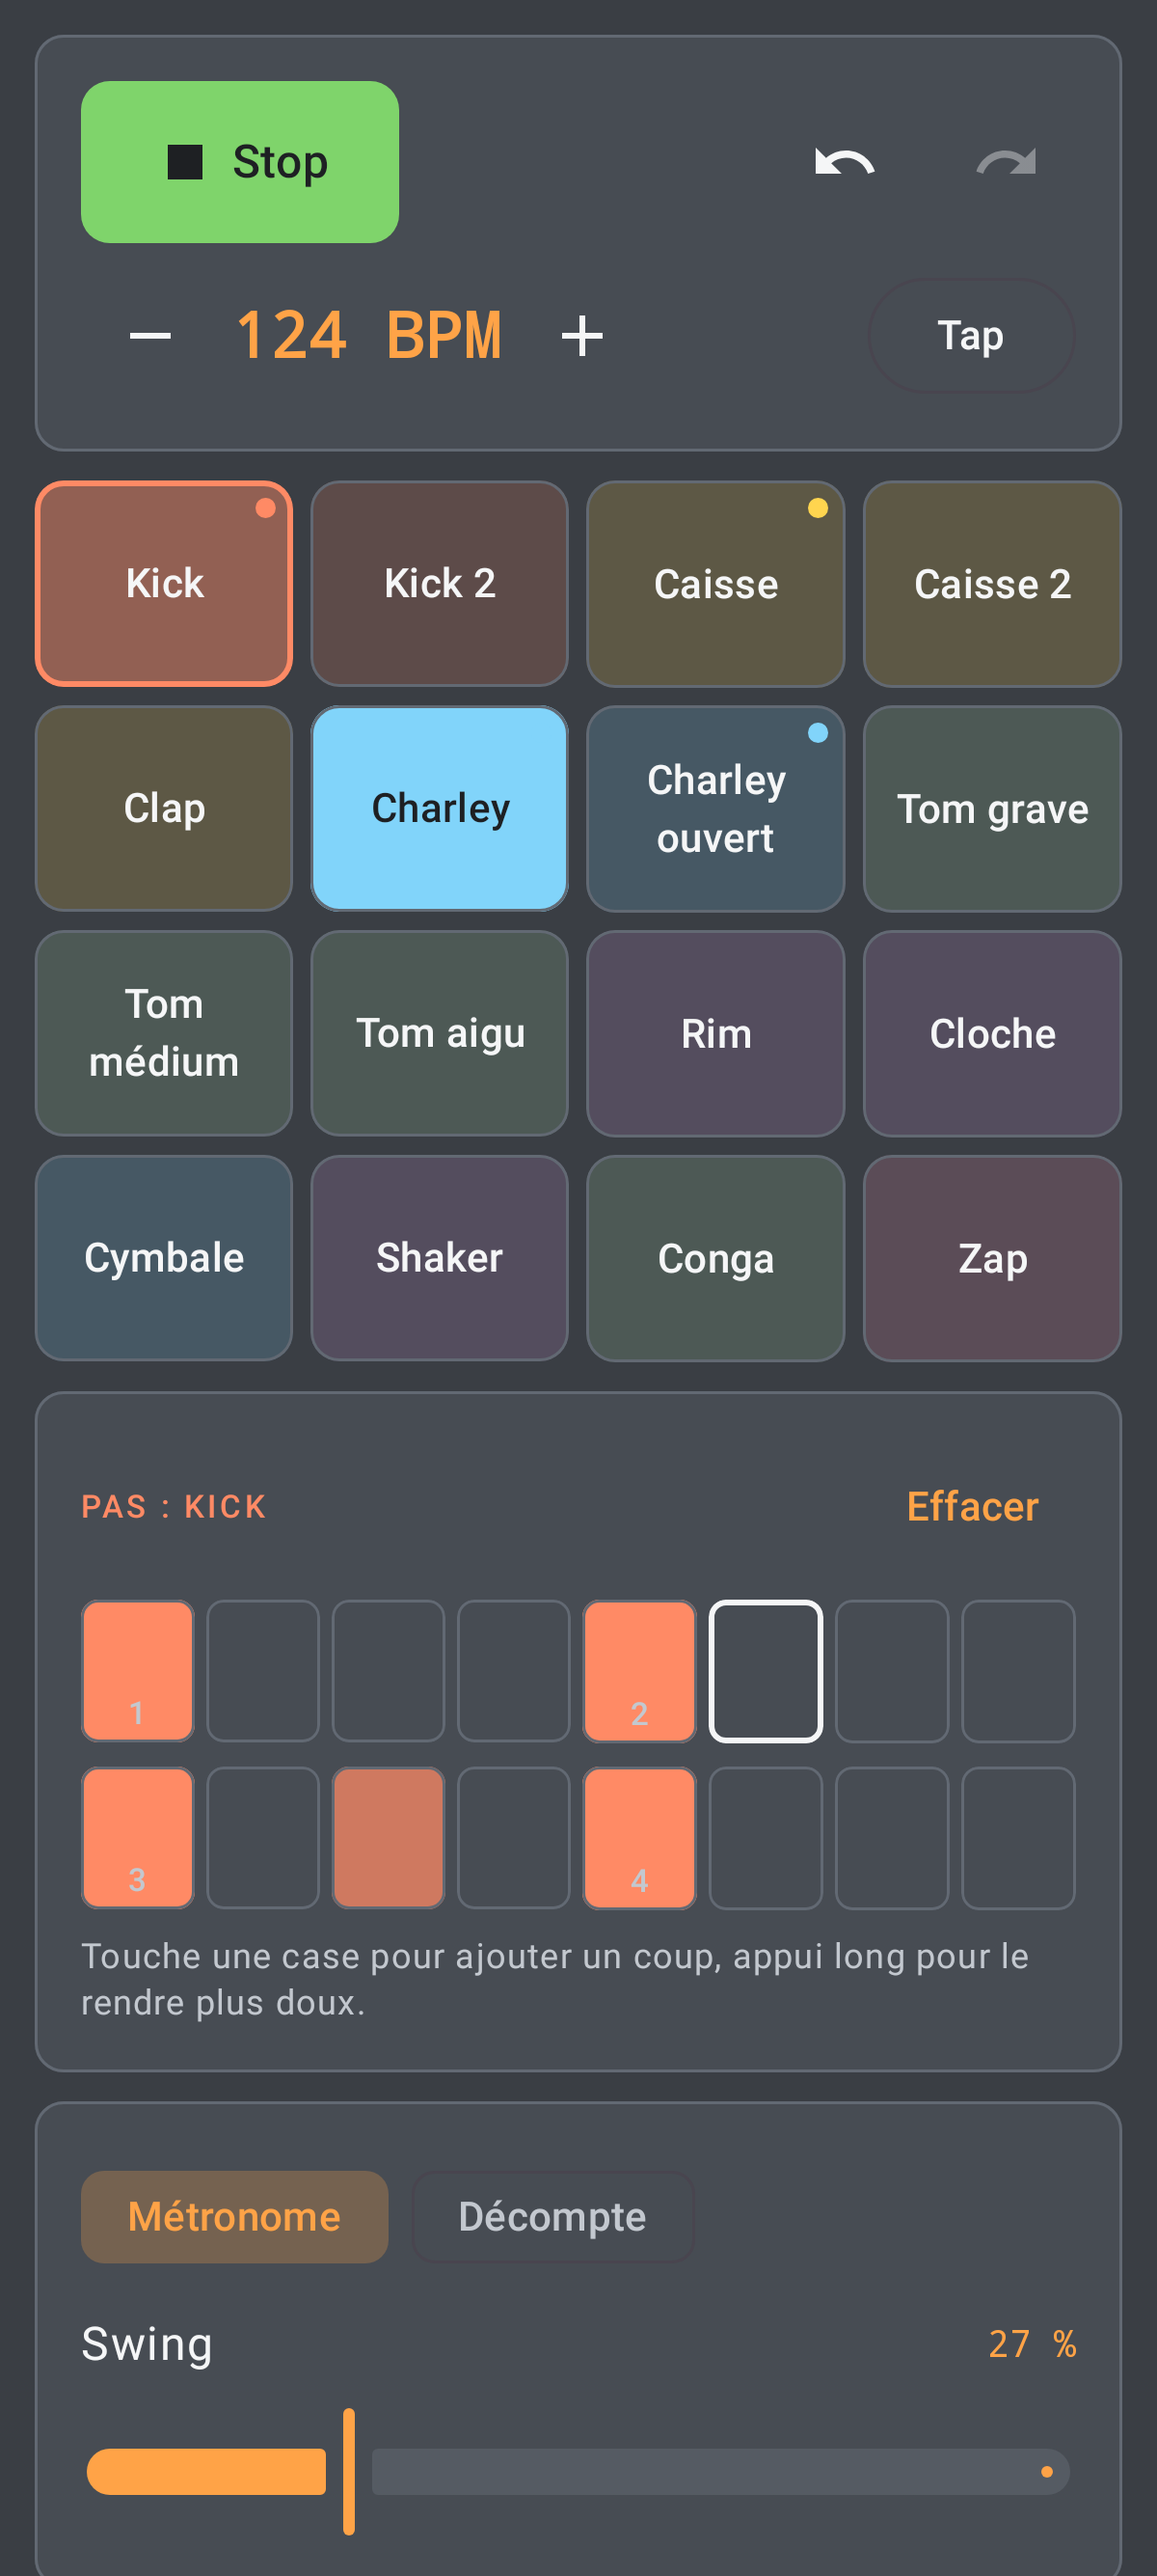
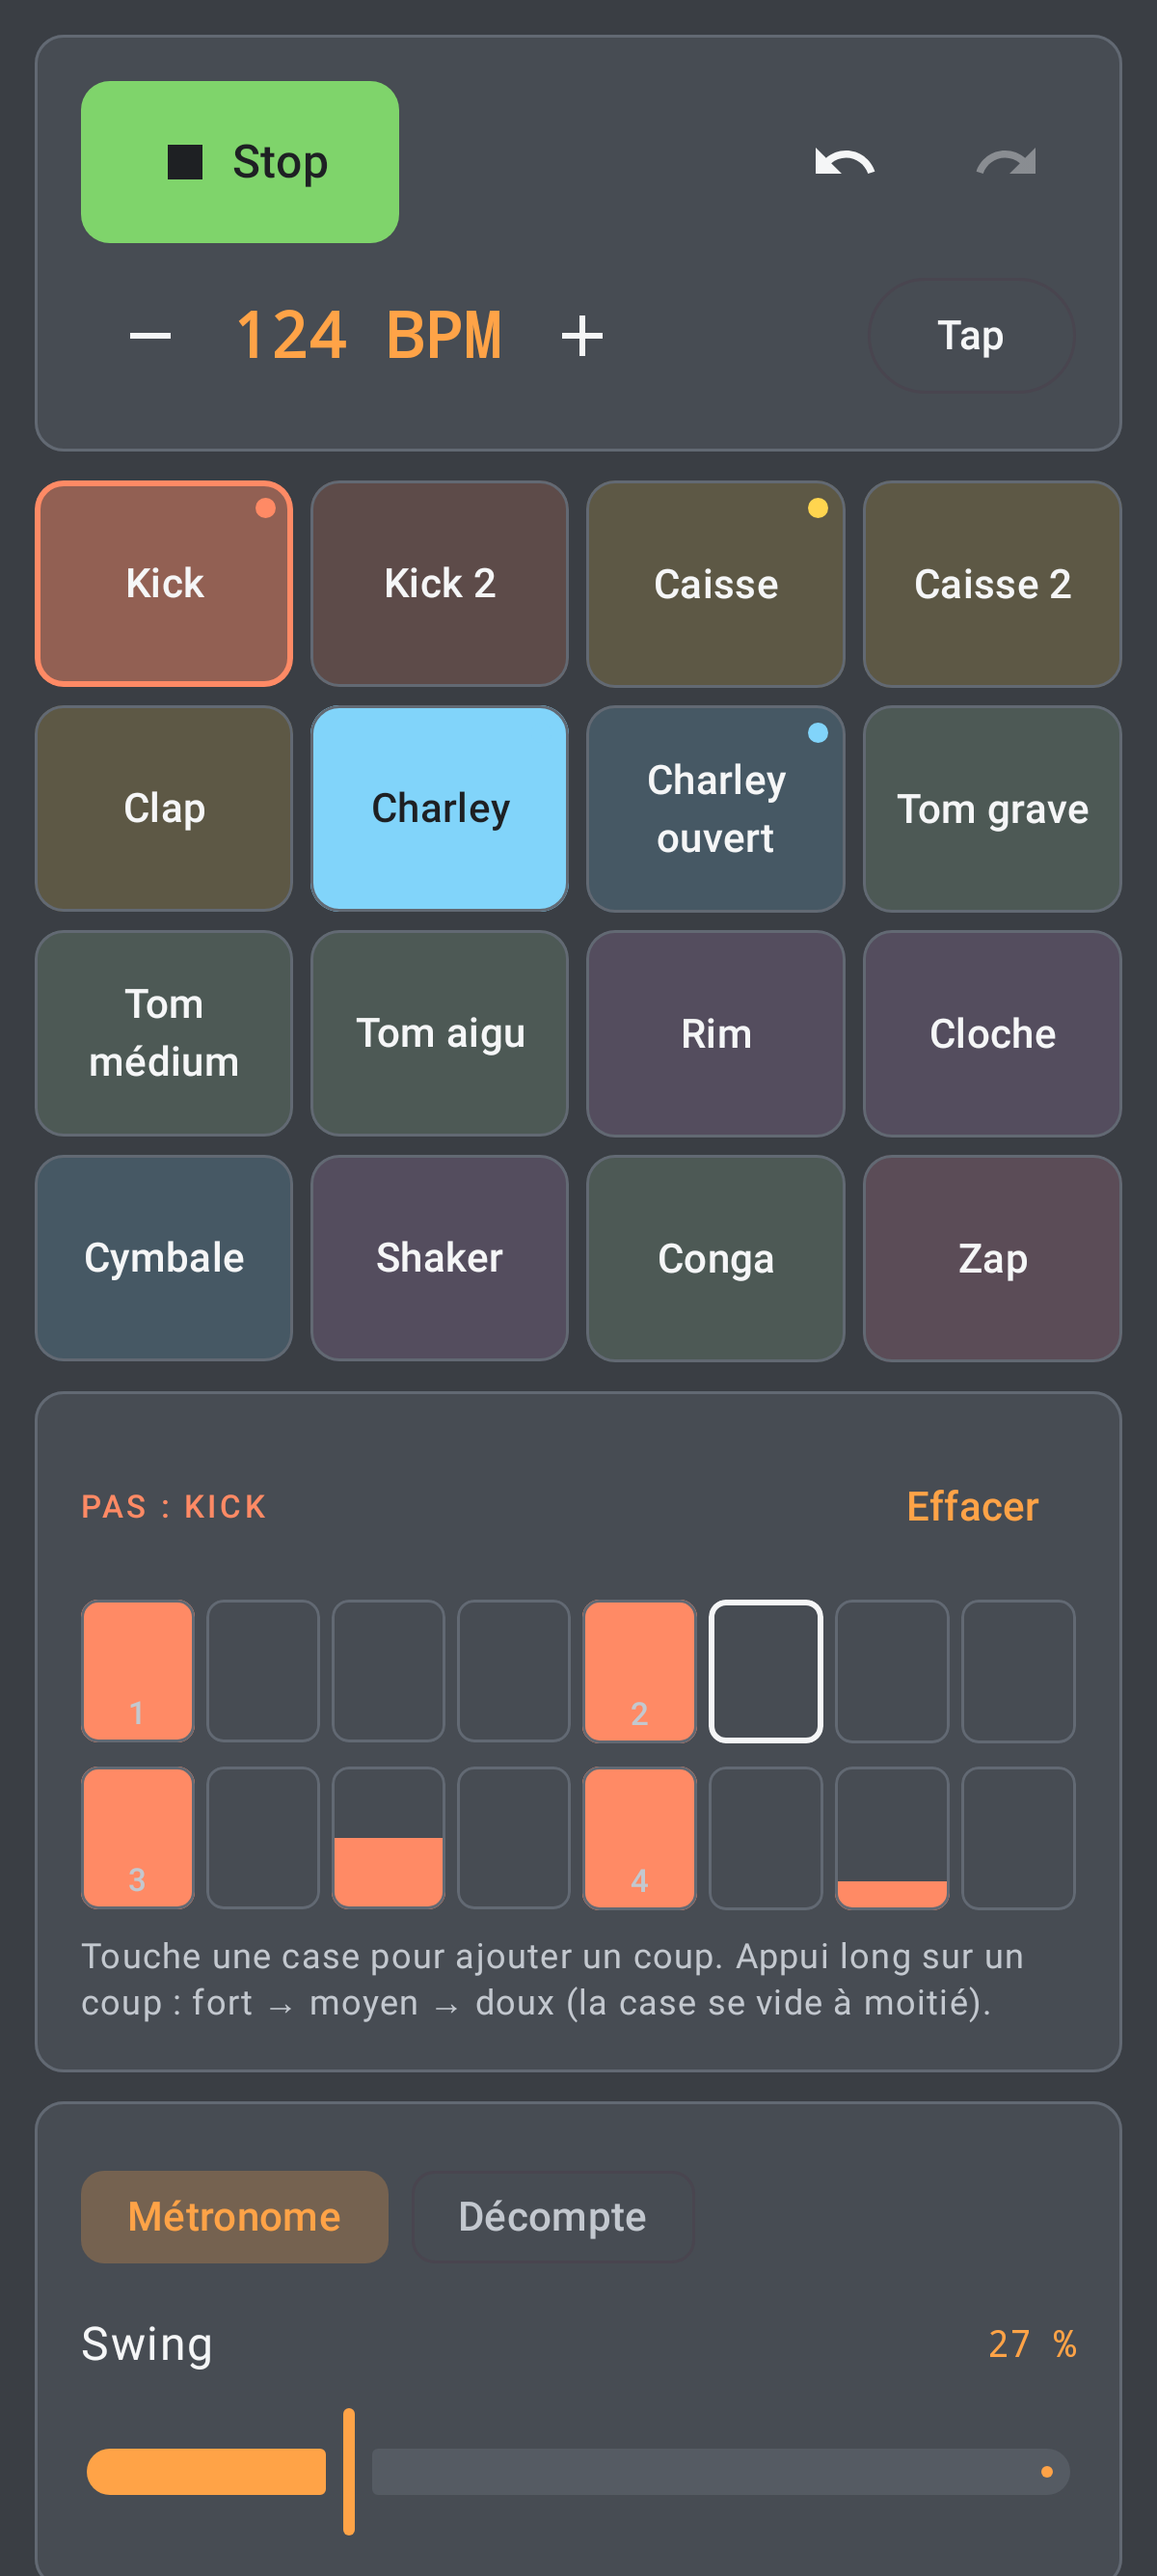
Make soft drum hits obvious (checklist #5)
The long-press velocity worked but was hard to see and hear (alpha only,
1/0.6/0.3). Hits now fill the cell up to their strength and the steps
are 1/0.5/0.2 (-6 dB, -14 dB); hint text explains the cycle.

Claude-Session: https://claude.ai/code/session_01NqonxZBBysqqWBbnsC2VTP

Changed region(s): [[0.6167, 0.715, 0.8942, 0.7772], [0.2775, 0.6839, 0.4008, 0.7461]]

diff --git a/app/src/main/java/com/pocketstudio/app/rhythm/RhythmScreen.kt b/app/src/main/java/com/pocketstudio/app/rhythm/RhythmScreen.kt
@@ -9,6 +9,7 @@ import androidx.compose.foundation.layout.Box
 import androidx.compose.foundation.layout.Column
 import androidx.compose.foundation.layout.Row
 import androidx.compose.foundation.layout.aspectRatio
+import androidx.compose.foundation.layout.fillMaxHeight
 import androidx.compose.foundation.layout.fillMaxSize
 import androidx.compose.foundation.layout.fillMaxWidth
 import androidx.compose.foundation.layout.height
@@ -199,11 +200,7 @@ private fun StepGrid(project: Project, lane: Int, currentStep: Int, actions: Rhy
                     val velocity = hits[step]?.velocity
                     val isBeat = step % 4 == 0
                     val playing = step == currentStep
-                    val fill = when {
-                        velocity != null -> color.copy(alpha = 0.35f + 0.65f * velocity)
-                        isBeat -> Neon.SurfaceHigh
-                        else -> Neon.Surface
-                    }
+                    val fill = if (isBeat) Neon.SurfaceHigh else Neon.Surface
                     Box(
                         modifier = Modifier
                             .weight(1f)
@@ -221,6 +218,10 @@ private fun StepGrid(project: Project, lane: Int, currentStep: Int, actions: Rhy
                             .testTag("step_$step"),
                         contentAlignment = Alignment.BottomCenter,
                     ) {
+                        // The hit fills the cell up to its strength: full, two thirds or one third.
+                        if (velocity != null) {
+                            Box(Modifier.fillMaxWidth().fillMaxHeight(velocity.coerceIn(0.2f, 1f)).background(color))
+                        }
                         if (isBeat) {
                             Text(
                                 "${step / 4 + 1}",
@@ -234,7 +235,7 @@ private fun StepGrid(project: Project, lane: Int, currentStep: Int, actions: Rhy
             }
         }
         Text(
-            "Touche une case pour ajouter un coup, appui long pour le rendre plus doux.",
+            "Touche une case pour ajouter un coup. Appui long sur un coup : fort → moyen → doux (la case se vide à moitié).",
             style = MaterialTheme.typography.bodySmall,
             color = Neon.TextSecondary,
         )

diff --git a/app/src/main/java/com/pocketstudio/app/rhythm/RhythmViewModel.kt b/app/src/main/java/com/pocketstudio/app/rhythm/RhythmViewModel.kt
@@ -320,10 +320,11 @@ class RhythmViewModel(app: Application) : AndroidViewModel(app) {
         val lane = _transport.value.selectedPad
         session.edit { p ->
             val current = p.drums.lanes[lane].hits[step]?.velocity
+            // Strong 1.0, medium 0.5 (−6 dB), soft 0.2 (−14 dB): clearly audible steps.
             val next = when {
                 current == null -> 1f
-                current > 0.8f -> 0.6f
-                current > 0.45f -> 0.3f
+                current > 0.75f -> 0.5f
+                current > 0.35f -> 0.2f
                 else -> 1f
             }
             val lanes = p.drums.lanes.toMutableList()

diff --git a/app/src/test/java/com/pocketstudio/app/ScreenshotTest.kt b/app/src/test/java/com/pocketstudio/app/ScreenshotTest.kt
@@ -109,7 +109,7 @@ class ScreenshotTest {
     fun rhythm() = shoot("rhythm") {
         var drums = DrumPattern()
         DrumKitInfo.starterHits.forEach { (lane, steps) -> steps.forEach { drums = drums.toggle(lane, it) } }
-        drums = drums.toggle(0, 10, 0.6f)
+        drums = drums.toggle(0, 10, 0.5f).toggle(0, 14, 0.2f)
         RhythmScreen(
             project = Project(tempoBpm = 124.0, swing = 0.2, drums = drums),
             transport = TransportUi(playing = true, metronome = true, selectedPad = 0),

diff --git a/docs/PROGRESS.md b/docs/PROGRESS.md
@@ -26,6 +26,8 @@
 - Jalon 1.6 (export) : `WavWriter` (24 bits, dither triangulaire) + `OfflineRenderer` (moteur privé, plus rapide que le temps réel, arrêt pile à la fin + 2 s de queue) ; le projet lui est décrit par le même code de synchro que le moteur en direct (`NativeEngine.captureInto`). Carte « Exporter en WAV » dans le Mixeur (1 à 16 mesures, progression, annuler), copie dans Musique › Pocket Studio, bouton Partager. Tests Linux : en-tête, écrêtage sans retournement, rendu identique à l'échantillon près, annulation, erreur disque.
 - Jalon 1.6 (fond) : `PlaybackService` (service de premier plan « lecture multimédia ») démarré avec le transport, notification avec bouton Arrêter ; le moteur reste allumé en arrière-plan seulement pendant la lecture. Page Outils › Arrière-plan : notification, batterie sans restriction, réglage Honor « Lancement d'applications » guidé.
 
+- Recette #5 (rythme) : l'appui long « plus doux » n'était pas perceptible. La case se remplit désormais selon la force (fort / moyen / doux = 1 / 0,5 / 0,2, soit −6 et −14 dB).
+
 ## À retenir pour la suite
 - Demande de Benjamin : mode paysage (en particulier pour le synthé : clavier plus large). À prévoir dans la mise en page des écrans.
 - Afficher une « latence de jeu » (sortie + tactile) à côté de l'aller-retour ; essayer un buffer d'un seul burst.
